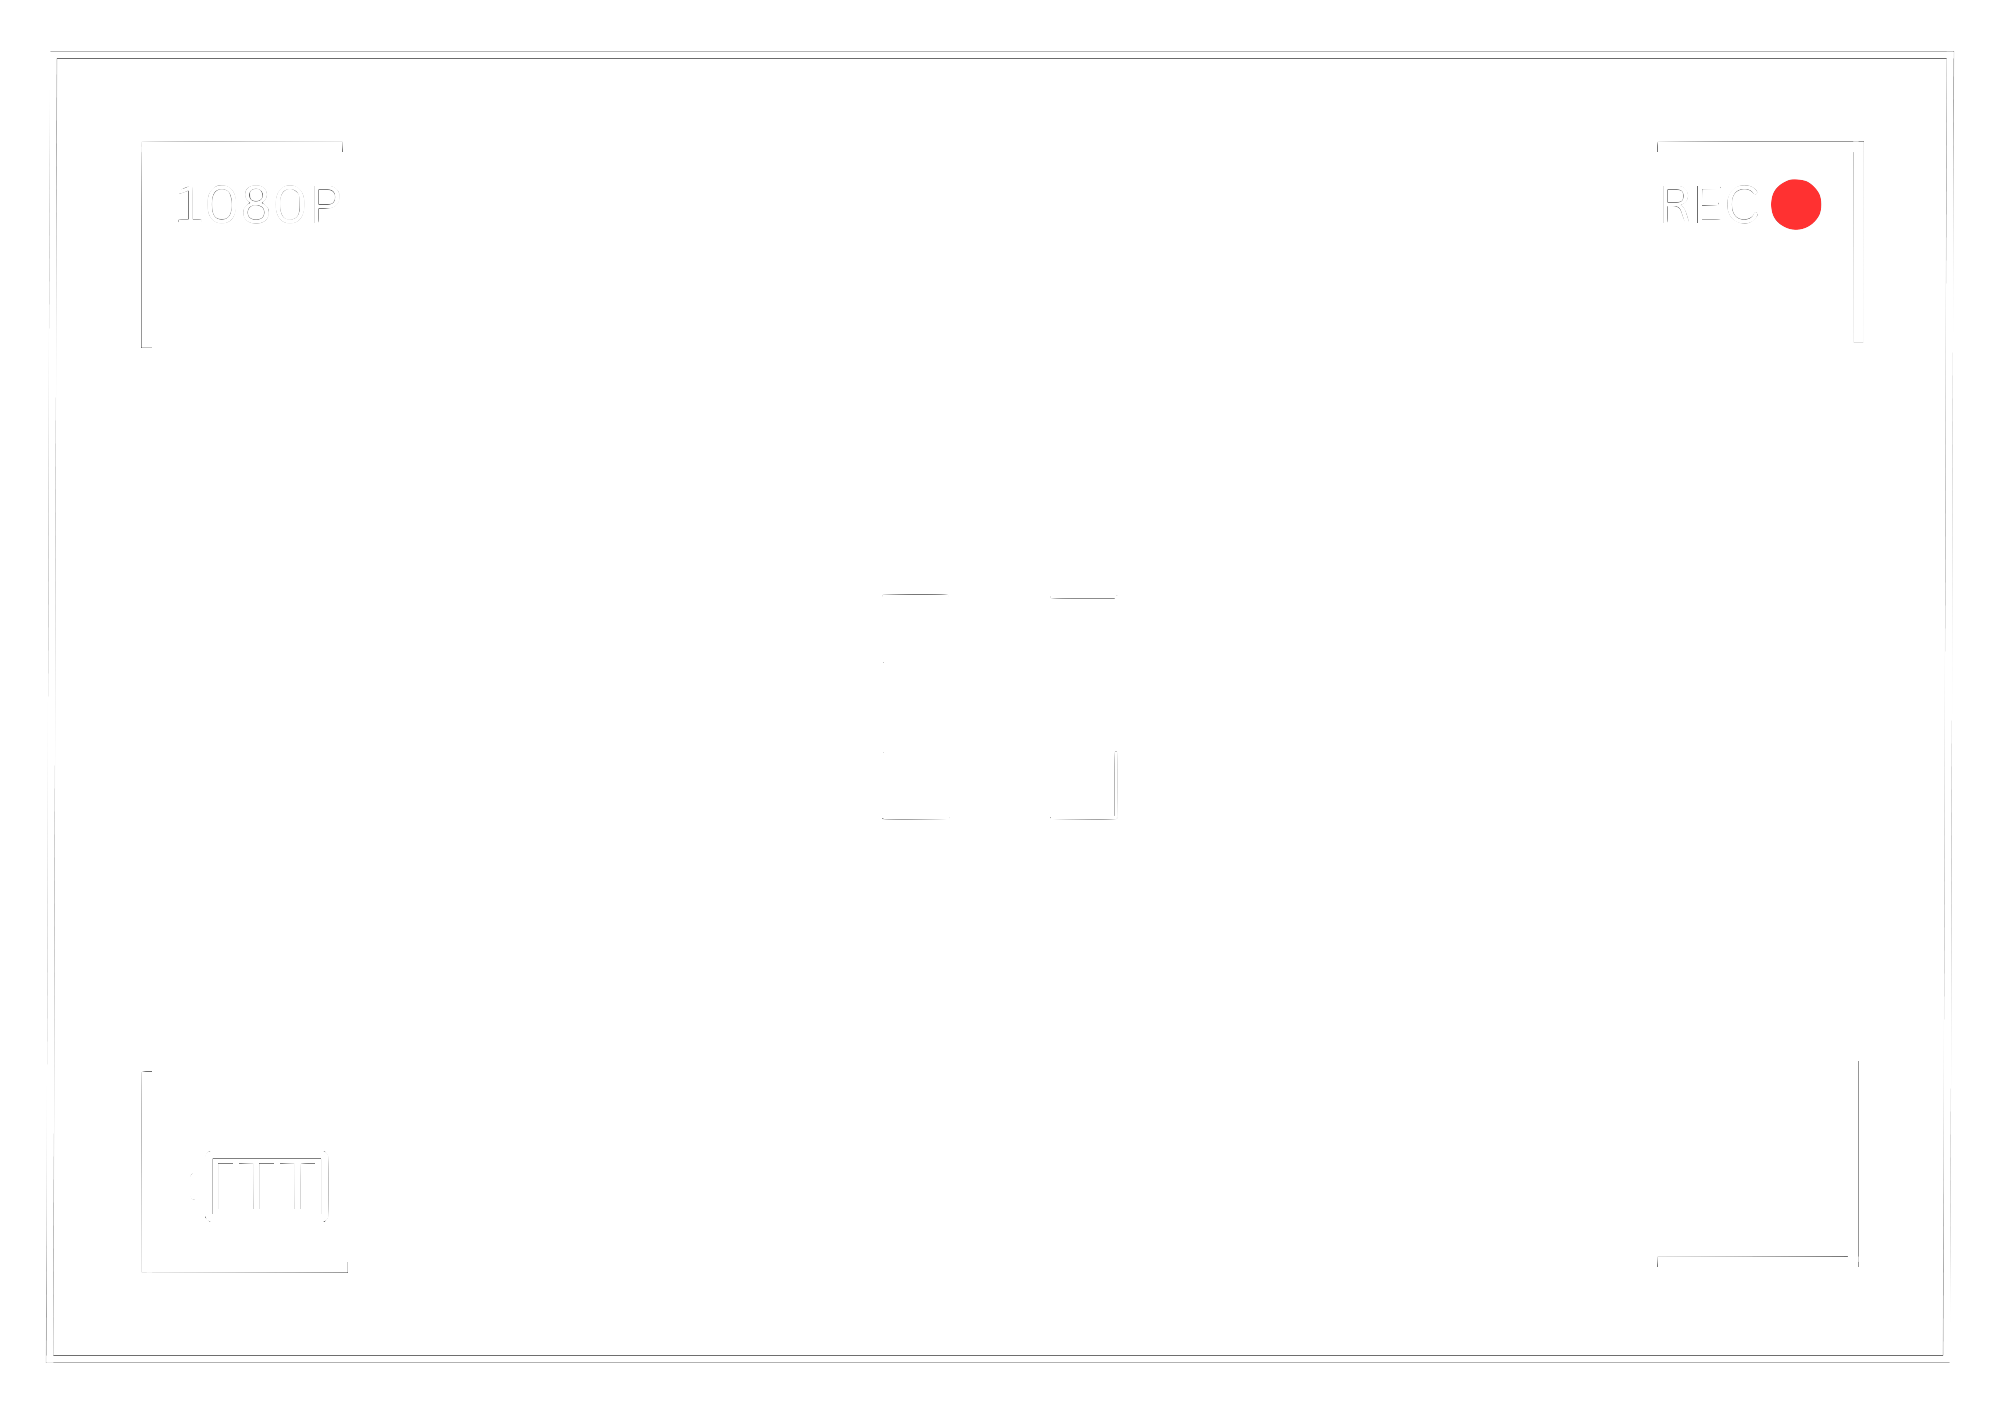
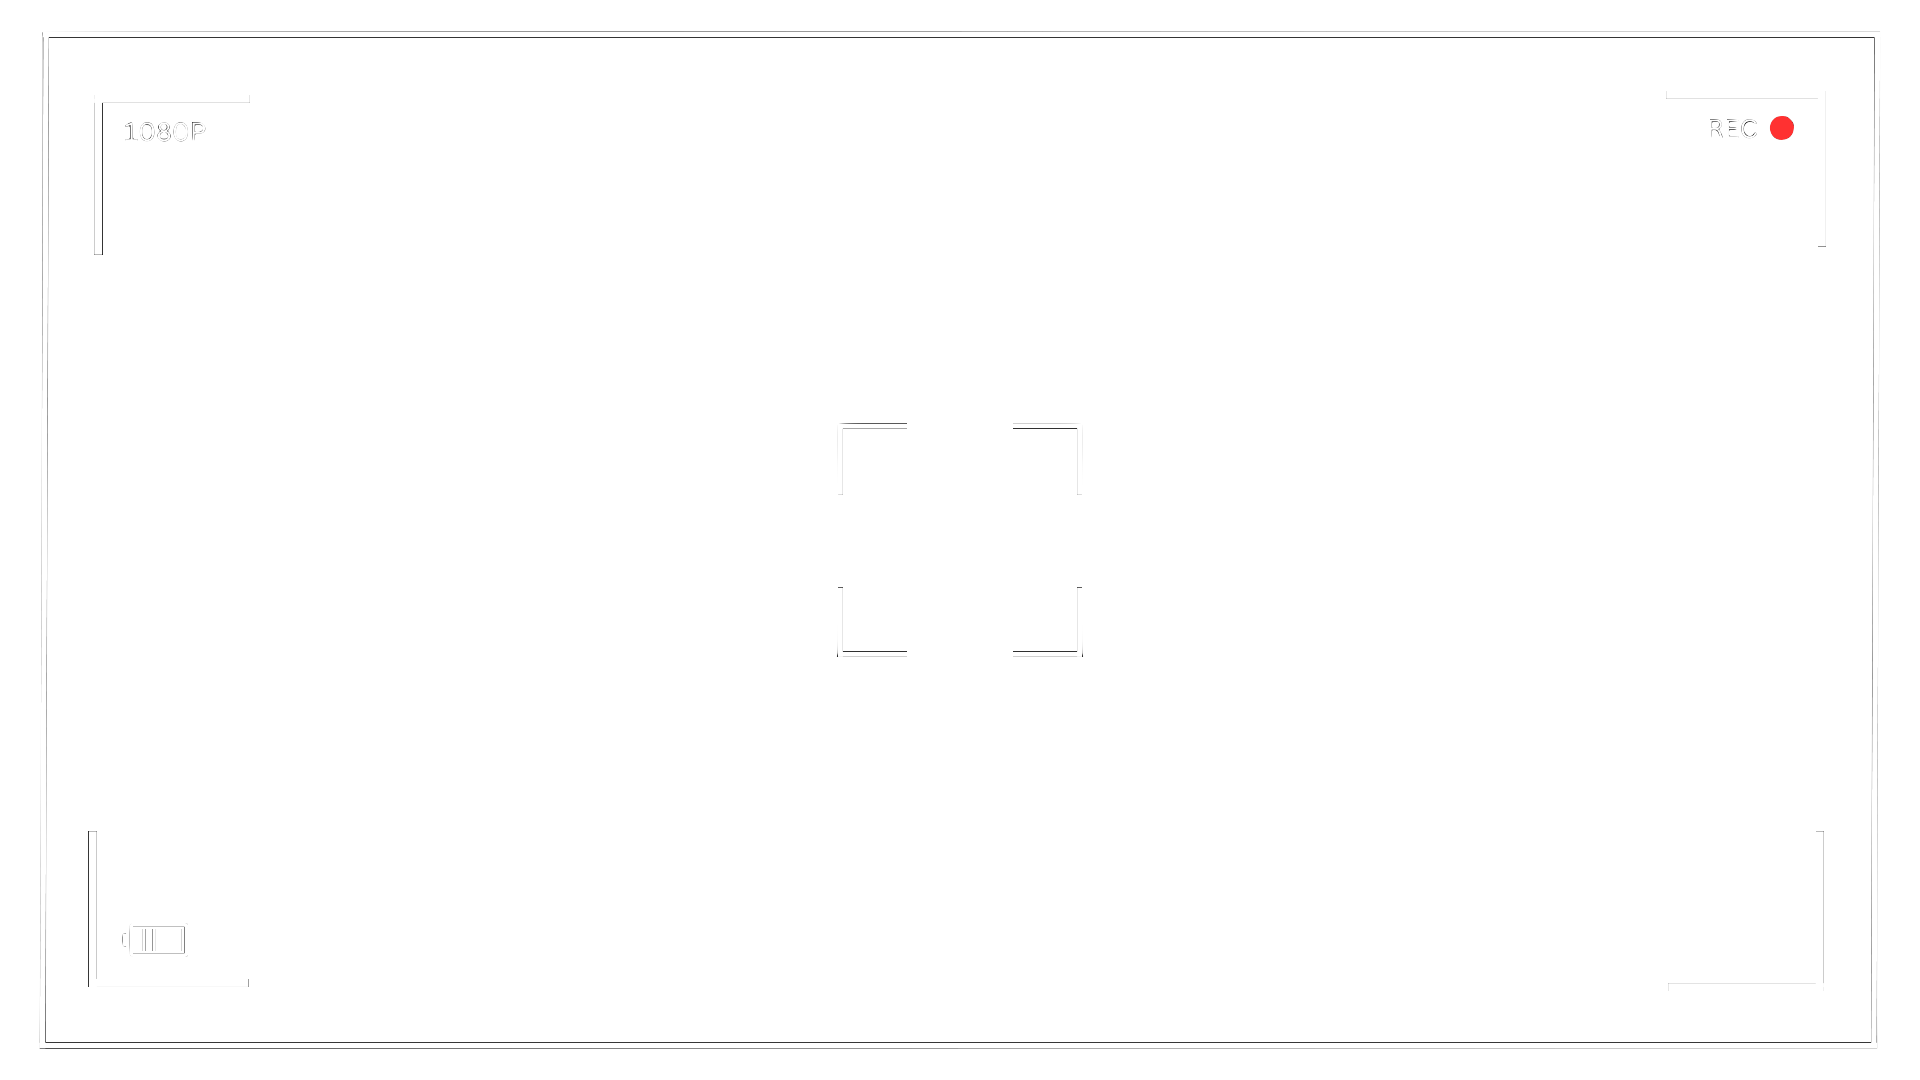
Camera controls (#6)
* camera js cleanup

* 'z' to put up camera

* camera overlay

* Revert "Merge branch 'main' into camera-ui"

This reverts commit a6661ae8efeac4b59744161b5eee1f64ed95e62f, reversing
changes made to 4579322a469f0940df17ca2d35f8076255610b7a.

* changes to menu calls

* menus disapear

* buttons also disabled

* buttons fix

* new camera UI

* change capture image to 'photocapture' on space

* zoom in using 'r' and zoom out using 'f'

* changing keybinds

* inc zoom values

* added vertical movement

---------

diff --git a/World.html b/World.html
@@ -4,12 +4,15 @@
     <title>Bird Watching Game</title>
 	<link rel="stylesheet" href="styles.css">
 </head>
+	<div id="image-container">
+		<img id="image" src="./jsm/images/cameraUI.png" alt="Overlay" />
+	</div>
 <!-- 
 	<img src="./jsm/images/cameraUI.png" class="responsive" id="image" style="width: 200px; height: 150px;">
 	<button onclick="changeImage()">Take Photo</button> -->
 <body>
     <div id="info">
-        <p>Take photos of birds<br>Use WASD or arrow keys to move the camera, scroll to zoom in/out</p>
+        <p>Take photos of birds<br>Use WASD or arrow keys to move the camera, q to open the camera, e to capture a photo, r&f to zoom in</p>
     </div>
 	<div id="controls" style="display: block;">
         <label>Number of Large Trees: <span id="numLargeTreesLabel">10</span></label>
@@ -30,7 +33,7 @@
 
     </div>
 	<button id="toggleTerrainControls">Terrain Controls</button>
-	<button id="open-menu-button" onclick="togglePopup()">Open Bird Collection</button>
+	<button id="open-menu-button">Open Bird Collection</button>
     <div id="popup-menu-container"></div>
 	<script type="importmap">
 		{
@@ -39,13 +42,6 @@
 		  }
 		}
 	  </script>
-<!-- 
-	<script type="module">
-        function changeImage() {
-            var img = document.getElementById('image');
-            img.src = "./jsm/images/photoCapture.png";
-        }
-    </script> -->
 
     <script type="module">
         import * as THREE from 'three';
@@ -54,40 +50,136 @@
         import { FirstPersonControls } from './jsm/controls/FirstPersonControls.js';
         import TerrainGenerator from './TerrainGenerator.js';
 		import Bird from './Bird.js';
+		import Camera from './Camera.js';
 
-		// function changeImage() {
-        //     var img = document.getElementById('image');
-        //     img.src = "./jsm/images/photoCapture.png";
-        // }
+		// Event listener for DOMContentLoaded event
+		document.addEventListener('DOMContentLoaded', function() {
+			// Event listener for keydown event
+			document.addEventListener('keydown', function (event) {
+				if (event.key === 'q') {
+					const imageContainer = document.getElementById('image-container');
+					const isCurrentlyVisible = imageContainer.style.display === 'block';
+					toggleCameraUI(!isCurrentlyVisible);
+				}
+			});
+		});
+
+		// Variable to keep track of the current image state
+		let isPhotoCaptured = false;
+
+		// Event listener for keydown event
+		document.addEventListener('keydown', function (event) {
+    		if (event.key === 'e') { // Check if the pressed key is the spacebar
+        		toggleImage(); // Call the function to toggle the image
+    		}
+		});
+
+		// Function to toggle the image
+		function toggleImage() {
+    	const image = document.getElementById('image');
+    		if (isPhotoCaptured) {
+    		    // Change back to cameraUI.png
+        		image.src = './jsm/images/cameraUI.png';
+    		} else {
+        		// Change to photoCapture.png
+        		image.src = './jsm/images/photoCapture.png';
+    		}
+    		// Toggle the state
+    		isPhotoCaptured = !isPhotoCaptured;
+		}
+
+		// Event listener for keydown event
+		document.addEventListener('keydown', function (event) {
+    		if (event.key === 'r') { // Zoom in when 'r' key is pressed
+        		zoomCamera(-2.5); // Pass -1 to indicate zoom in
+    		} else if (event.key === 'f') { // Zoom out when 'f' key is pressed
+        		zoomCamera(2.5); // Pass 1 to indicate zoom out
+    		}
+		});
+
+// Function to zoom the camera
+function zoomCamera(direction) {
+    const zoomSpeed = 1; // Adjust zoom speed as needed
+    camera.fov += direction * zoomSpeed; // Increase or decrease FOV based on direction
+    camera.updateProjectionMatrix(); // Update the camera's projection matrix
+}
+
+		// Function to toggle the visibility of the camera UI and adjust transparency
+		function toggleCameraUI(show) {
+			const imageContainer = document.getElementById('image-container');
+			const isVisible = show !== undefined ? show : imageContainer.style.display === 'none';
+
+			// Toggle the display property of the image container
+			imageContainer.style.display = isVisible ? 'block' : 'none';
+
+			// Adjust opacity based on visibility
+			document.getElementById('image').style.opacity = isVisible ? '1' : '0';
+
+			// References to controls and buttons
+			const controls = document.getElementById('controls');
+			const toggleTerrainButton = document.getElementById('toggleTerrainControls');
+			const openMenuButton = document.getElementById('open-menu-button');
+			const popupMenu = document.getElementById('popup-menu');
+
+			// Hide or show buttons and menus based on the camera UI state
+			if (isVisible) {
+				controls.style.display = 'none';
+				toggleTerrainButton.style.display = 'none';
+				openMenuButton.style.display = 'none';
+
+				if (popupMenu) {
+					popupMenu.classList.remove('show');
+					popupMenu.style.display = 'none';
+				}
+			} else {
+				toggleTerrainButton.style.display = 'block';
+				openMenuButton.style.display = 'block';
+			}
+		}
+
+
+
+		function initializeMenus() {
+			document.getElementById('controls').style.display = 'block'; // Terrain controls start open
+			document.getElementById('popup-menu-container').innerHTML = `
+				<div id="popup-menu" class="popup-menu">
+					<div class="close-button"><button onclick="togglePopup(false)">Close</button></div>
+					<h2>Bird Collection</h2>
+					<ul>
+						<li><a href="#option1">Option 1</a></li>
+						<li><a href="#option2">Option 2</a></li>
+						<li><a href="#option3">Option 3</a></li>
+					</ul>
+				</div>
+			`;
+			togglePopup(false); // Ensure Bird Collection starts hidden
+			toggleCameraUI(false); // Ensure Camera UI starts hidden
+		}
+
+		initializeMenus();
+
 
 		//collections menu
+		function togglePopup(show) {
+			const menu = document.getElementById('popup-menu');
+			if (menu) {
+				menu.classList.toggle('show', show);
+				menu.style.display = show ? 'block' : 'none';
+			}
+		}
 
-		function togglePopup() {
-            const menu = document.getElementById('popup-menu');
-            if (menu) {
-                menu.classList.toggle('show');
-            }
-        }
 
         // Function to load the pop-up menu into the page
         function loadCollectionMenu() {
-            fetch('BirdCollection.html')
-                .then(response => response.text())
-                .then(data => {
-                    document.getElementById('popup-menu-container').innerHTML = data;
-                    const script = document.createElement('script');
-                    script.innerHTML = `
-                        function togglePopup() {
-                            const menu = document.getElementById('popup-menu');
-                            if (menu) {
-                                menu.classList.toggle('show');
-                            }
-                        }
-                    `;
-                    document.body.appendChild(script);
-                })
-                .catch(error => console.error('Error loading the pop-up menu:', error));
-        }
+			fetch('BirdCollection.html')
+				.then((response) => response.text())
+				.then((data) => {
+					document.getElementById('popup-menu-container').innerHTML = data;
+					// Ensure the menu starts hidden
+					togglePopup(false);
+				})
+				.catch((error) => console.error('Error loading the pop-up menu:', error));
+		}
 
         // Load the pop-up menu on page load
         document.addEventListener('DOMContentLoaded', loadCollectionMenu);
@@ -109,6 +201,10 @@
 		renderer.physicallyCorrectLights = true;
 		renderer.toneMapping = THREE.ACESFilmicToneMapping;
 		renderer.toneMappingExposure = 1.0; // Adjust as needed
+		
+		//renderer.shadowMap.enabled = true;
+		//renderer.shadowMap.type = THREE.PCFSoftShadowMap;
+
 
 		document.body.appendChild(renderer.domElement);
 
@@ -225,12 +321,22 @@
 		document.getElementById('generateTrees').addEventListener('click', generateTrees);
 		document.getElementById('clearScene').addEventListener('click', () => terrainGenerator.clearTrees());
 
-		function toggleTerrainControls() {
+		function toggleTerrainControls(show) {
 			const controls = document.getElementById('controls');
-    		controls.style.display = (controls.style.display === 'none') ? 'block' : 'none';
+			controls.style.display = show ? 'block' : 'none';
 		}
 
-		document.getElementById('toggleTerrainControls').addEventListener('click', toggleTerrainControls);
+		document.getElementById('toggleTerrainControls').addEventListener('click', () => {
+			const controls = document.getElementById('controls');
+			const isCurrentlyVisible = controls.style.display === 'block';
+			toggleTerrainControls(!isCurrentlyVisible);
+		});
+
+		document.getElementById('open-menu-button').addEventListener('click', () => {
+			const menu = document.getElementById('popup-menu');
+			const isCurrentlyVisible = menu.classList.contains('show');
+			togglePopup(!isCurrentlyVisible);
+		});
 
 		//add and move birds
 		function getRandomPositionAndDirection() {

diff --git a/jsm/controls/FirstPersonControls.js b/jsm/controls/FirstPersonControls.js
@@ -18,8 +18,8 @@ class FirstPersonControls {
         this.lookRight = false;
 
         this.constrainVertical = true;
-        this.verticalMin = Math.PI / 1; //default = 0 radians (0 degrees)
-        this.verticalMax = Math.PI / 2.3; //default = Math.PI (180 degrees)
+        this.verticalMin = Math.PI / 1.3; //default = 0 radians (0 degrees)
+        this.verticalMax = Math.PI / 2.4; //default = Math.PI (180 degrees)
 
         // private variables
         let lat = 0;
@@ -29,10 +29,12 @@ class FirstPersonControls {
             switch (event.code) {
                 case 'ArrowUp':
                 case 'KeyW':
+                    console.log('up pressed');
                     this.moveUp = true;
                     break;
                 case 'ArrowDown':
                 case 'KeyS':
+                    console.log('down pressed');
                     this.moveDown = true;
                     break;
                 case 'ArrowLeft':
@@ -71,13 +73,17 @@ class FirstPersonControls {
             return function update(delta) {
                 if (this.enabled === false) return;
 
-                let actualLookSpeed = delta * this.lookSpeed;
-
-                lon += actualLookSpeed * (this.lookRight ? 1 : 0) - actualLookSpeed * (this.lookLeft ? 1 : 0);
-                lat += actualLookSpeed * (this.moveUp ? 1 : 0) - actualLookSpeed * (this.moveDown ? 1 : 0);
-
+                let actualHorizontalLookSpeed = delta * this.lookSpeed * 1.3;
+                let actualVerticalLookSpeed = delta * this.lookSpeed * 0.02; // Adjust the factor as needed
+                
+                // Horizontal movement
+                lon += actualHorizontalLookSpeed * (this.lookRight ? 1 : 0) - actualHorizontalLookSpeed * (this.lookLeft ? 1 : 0);
+                
+                // Vertical movement
+                lat += actualVerticalLookSpeed * (this.moveUp ? 1 : 0) - actualVerticalLookSpeed * (this.moveDown ? 1 : 0);
+                
                 // Constrain vertical angle
-                lat = MathUtils.clamp(lat, MathUtils.degToRad(90) - this.verticalMax, MathUtils.degToRad(90) - this.verticalMin);
+                //lat = MathUtils.clamp(lat, MathUtils.dewgToRad(90) - this.verticalMax, MathUtils.degToRad(90) - this.verticalMin);
 
                 const phi = MathUtils.degToRad(90) - lat;
                 const theta = MathUtils.degToRad(lon);

diff --git a/styles.css b/styles.css
@@ -8,6 +8,7 @@ body {
 canvas {
     width: 100%;
     height: 100%;
+    z-index: 0;
 }
 #info {
     position: absolute;
@@ -55,7 +56,7 @@ label {
     border: none;
     border-radius: 5px;
     cursor: pointer;
-    z-index: 20;
+    z-index: 10;
 }
 #popup-menu {
     display: none;
@@ -79,3 +80,24 @@ label {
     display: block;
     text-align: right;
 }
+
+#image {
+    opacity: 1; /* Adjust to the desired transparency level */
+    width: 100%;   /* Adjust size as needed */
+    height: 100%;  /* Adjust size as needed */
+    z-index: 15;
+}
+
+#image-container {
+    position: absolute;
+    top: 0;
+    left: 0;
+    width: 100%;
+    height: 100%;
+    display: flex;
+    justify-content: center;
+    align-items: center;
+    z-index: 15; /* Ensure it's above the canvas but below other UI elements */
+    pointer-events: none; /* Allow clicks to pass through */
+}
+

diff --git a/Camera.js b/Camera.js
@@ -1,5 +1,6 @@
 import Bird from './Bird.js';
 import Photo from './Photo.js';
+import * as THREE from 'three'; // Import THREE if not imported already
 
 export default class Camera {
 
@@ -14,6 +15,12 @@ export default class Camera {
         if (this.birdInFrameBool === true){
             return new Photo();
         }
+    }
+
+    // Function to change the image
+    changeImage() {
+        var img = document.getElementById('image');
+        img.src = "./jsm/images/photoCapture.png";
     }
 
 }

diff --git a/CameraUI.html b/CameraUI.html
@@ -1,0 +1,20 @@
+<!DOCTYPE html>
+<html lang="en">
+<head>
+    <meta charset="UTF-8">
+    <title>Testing</title>
+    <style>
+                /* Add any necessary styles here */
+                #image-container {
+            display: none; /* Initially hide the camera UI */
+        }
+    </style>
+</head>
+<body>
+    <div id="image-container">
+        <img id="image" src="./jsm/images/cameraUI.png" alt="Photo" />
+    </div>
+    
+</body>
+</html>
+
